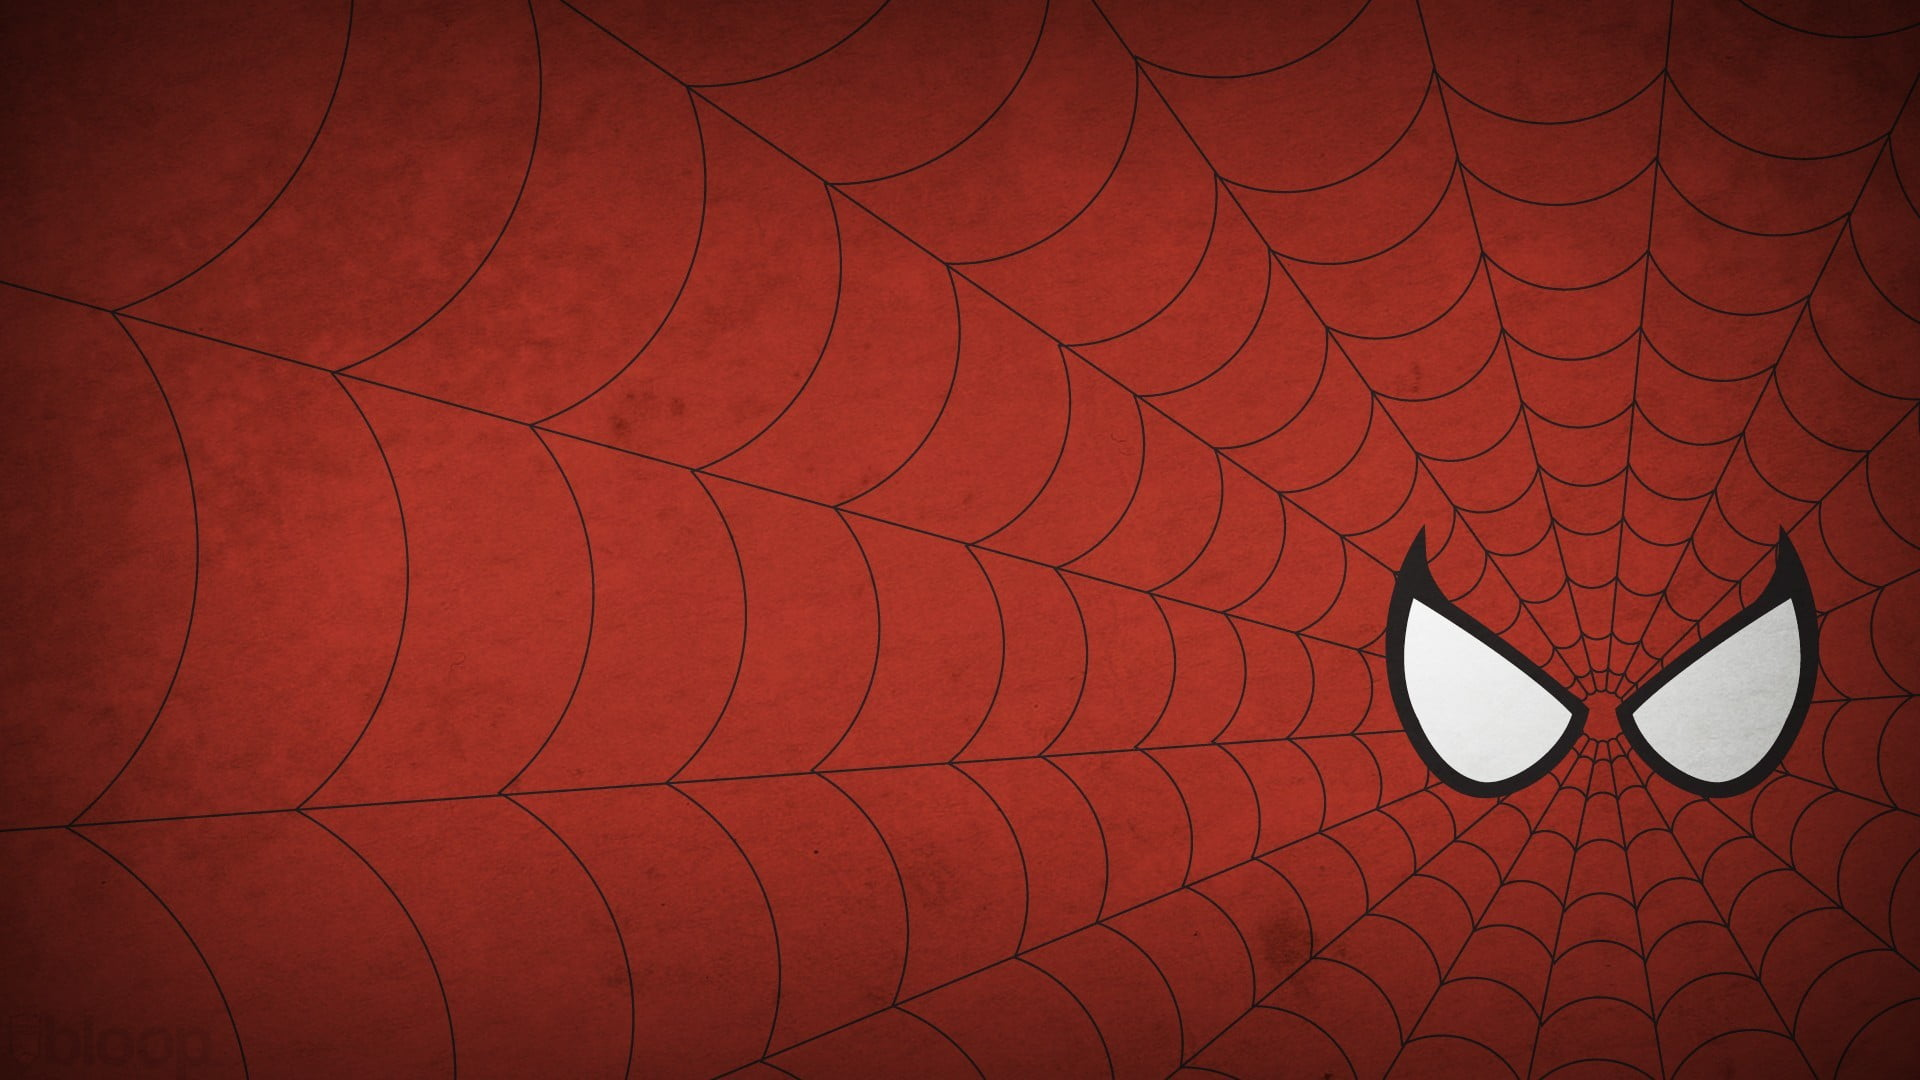
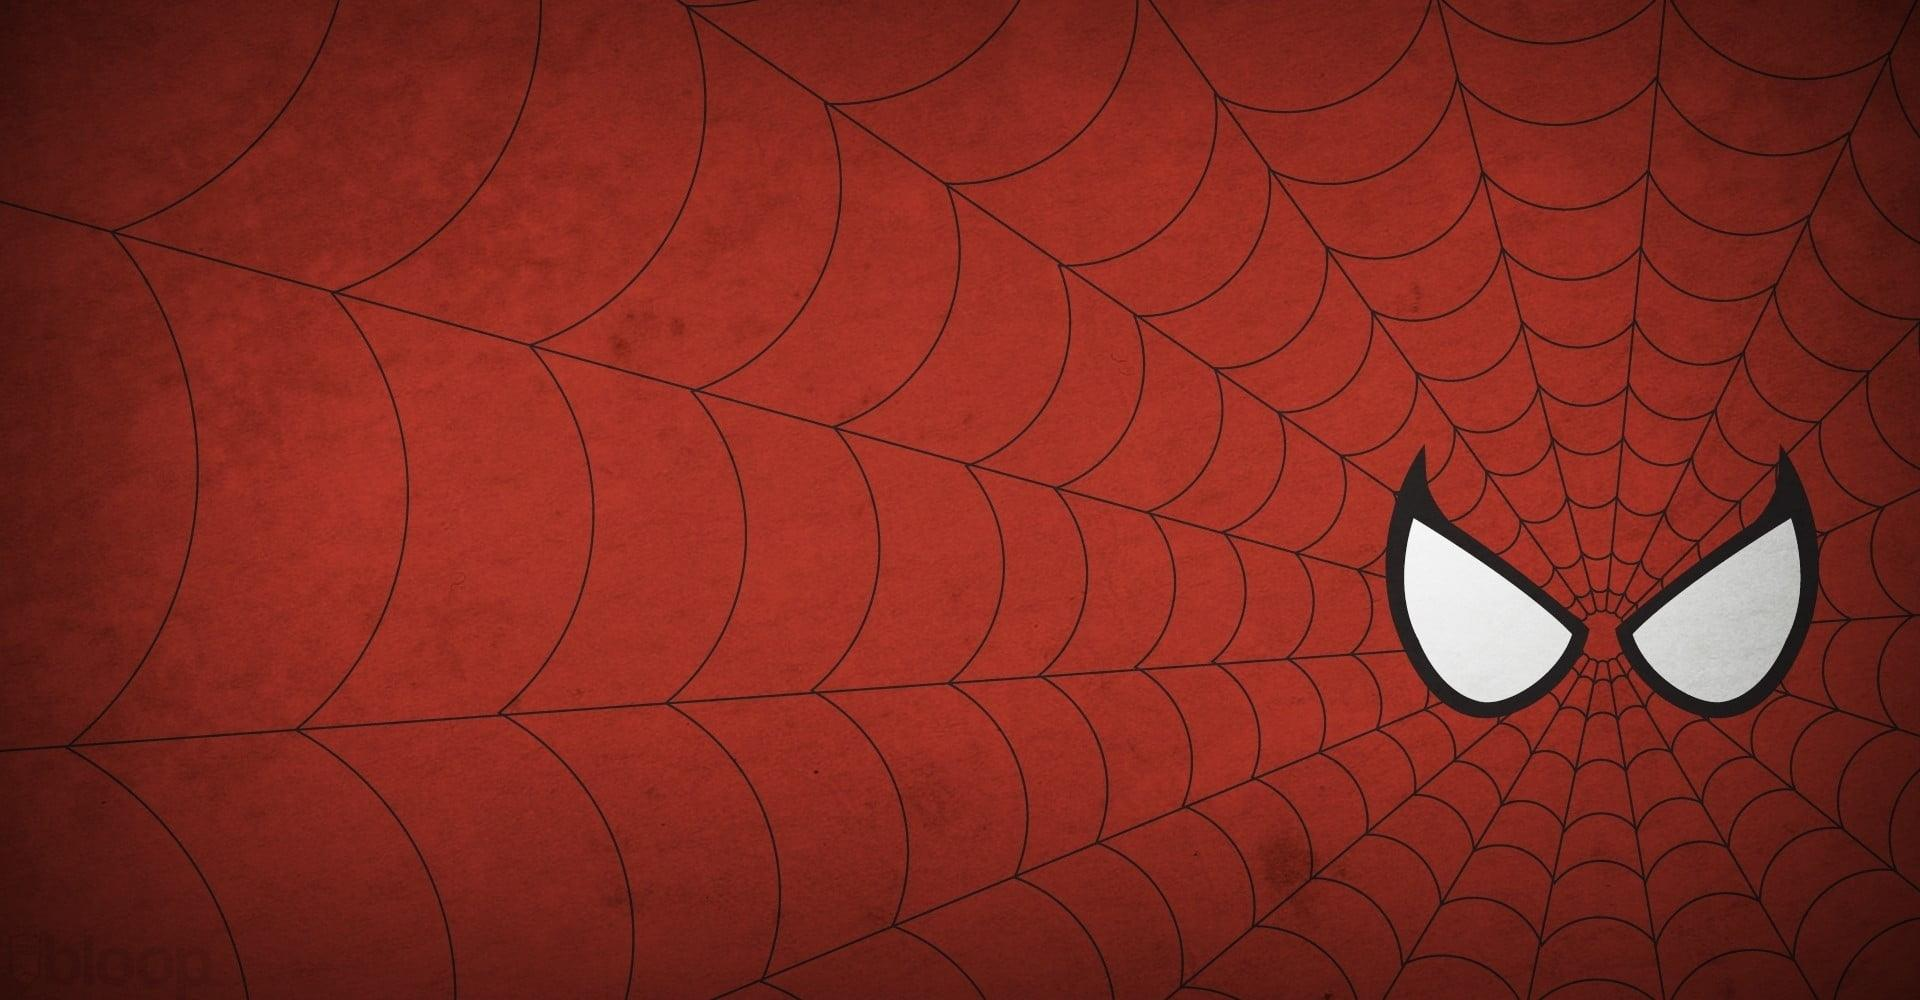
UI design for the main page

diff --git a/packages/react-app/src/App.js b/packages/react-app/src/App.js
@@ -2,11 +2,20 @@ import React, { useState } from 'react'
 import { useEthers } from "@usedapp/core";
 import styles from "./styles";
 import logo from "./assets/marvel_logo.png"
-import { Exchange, Loader, ToggleBar, WalletButton } from "./components";
+import { Exchange, Loader, WalletButton } from "./components";
 import { usePools } from "./hooks";
 import bg_1 from './assets/bg_1.jpg'
+import bg_2 from './assets/bg_2.jpg'
+import bg_3 from './assets/bg_3.jpg'
+import bg_4 from './assets/bg_4.jpg'
+import bg_5 from './assets/bg_5.jpg'
+import bg_6 from './assets/bg_6.jpg'
+import bg_7 from './assets/bg_7.jpg'
+import bg_8 from './assets/bg_8.jpg'
+import side_img from './assets/side_5.png'
 import { MdSwapVerticalCircle } from 'react-icons/md'
 import { FaChartPie } from 'react-icons/fa'
+import eye from './assets/eye_2.png'
 
 
 const App = () => {
@@ -29,35 +38,120 @@ const App = () => {
     setPoolOpen(true)
   }
 
-  const bgImage1 = {
+  window.addEventListener('mousemove', (e) => {
+    // console.log(e.clientX)
+    const mouseX = e.clientX
+    const mouseY = e.clientY
+
+    const anchor = document.getElementById('anchor')
+    const rekt = anchor.getBoundingClientRect()
+    const anchorX = rekt.left + rekt.width / 2
+    const anchorY = rekt.top + rekt.height / 2
+
+    const angleDeg = angle(mouseX, mouseY, anchorX, anchorY)
+    console.log(angleDeg)
+
+    const eyes = document.querySelectorAll('.eye')
+      eyes.forEach(eachEye => {
+        eachEye.style.transform = `rotate(${90 + angleDeg}deg)`
+      })
+  })
+
+  function angle(cx, cy, ex, ey) {
+    const dy = ey - cy
+    const dx = ex - cx
+    const rad = Math.atan2(dy, dx)
+    const deg = rad * 180 / Math.PI
+    return deg
+  }
+  const bgImage_1 = {
     backgroundImage: `url(${bg_1})`,
     height: '100vh',
     backgroundSize: 'cover',
     backgroundRepeat: 'no-repeat'
   }
 
+  const bgImage_2 = {
+    backgroundImage: `url(${bg_2})`,
+    height: '100vh',
+    backgroundSize: 'cover',
+    backgroundRepeat: 'no-repeat'
+  }
+
+  const bgImage_3 = {
+    backgroundImage: `url(${bg_3})`,
+    height: '100vh',
+    backgroundSize: 'cover',
+    backgroundRepeat: 'no-repeat'
+  }
+
+  const bgImage_4 = {
+    backgroundImage: `url(${bg_4})`,
+    height: '100vh',
+    backgroundSize: 'cover',
+    backgroundRepeat: 'no-repeat'
+  }
+
+  const bgImage_5 = {
+    backgroundImage: `url(${bg_5})`,
+    height: '100vh',
+    backgroundSize: 'cover',
+    backgroundRepeat: 'no-repeat'
+  }
+
+  const bgImage_6 = {
+    backgroundImage: `url(${bg_6})`,
+    height: '100vh',
+    backgroundSize: 'cover',
+    backgroundRepeat: 'no-repeat'
+  }
+
+  const bgImage_7 = {
+    backgroundImage: `url(${bg_7})`,
+    height: '100vh',
+    backgroundSize: 'cover',
+    backgroundRepeat: 'no-repeat'
+  }
+
+  const bgImage_8 = {
+    backgroundImage: `url(${bg_8})`,
+    height: '100vh',
+    backgroundSize: 'cover',
+    backgroundRepeat: 'no-repeat'
+  }
+
+  const bgArray = [bgImage_1, bgImage_2, bgImage_3, bgImage_4, bgImage_5, bgImage_6, bgImage_7, bgImage_8]
+
   return (
-    <div className="flex justify-center min-h-screen sm:px-16 px-6 bg-site-black" style={bgImage1}>
-      <div className="relative flex justify-between items-center flex-col max-w-[1480px] w-full">
+    <div 
+      className="relative flex justify-center min-h-screen sm:px-16 px-6 bg-site-black" 
+      style={bgArray[4]} 
+    >
+      <img src={side_img} alt="side-img" id="anchor" className="fixed hidden lg:block absolute w-[420px] -top-[10px] left-[30px] z-10 border" />
+      {/* <div className='hidden lg:block' id='eyes'>
+        <img src={eye} alt="eye" className='eye absolute w-[45px] lg:bottom-[180px] lg:right-[320px] xl:bottom-[200px] xl:right-[420px]' />
+        <img src={eye} alt="eye" className='eye absolute w-[45px] lg:bottom-[180px] lg:right-[160px] xl:bottom-[200px] xl:right-[220px]' />
+      </div> */}
+      <div className="relative flex justify-between items-center flex-col max-w-[1580px] w-full">
         {/* NAV BAR */}
         <header className="flex flex-row justify-between items-center w-full py-6">
           {/* logo + name */}
-          <div className="flex items-center w-full md:w-[20%] ">
+          <div className="flex items-center w-full md:w-[25%] z-20">
             <img
               src={logo}
               alt="uniswap-logo"
               className="xl:w-20 xl:h-20 w-16 h-16 object-contain"
             />
-            <h1 className="text-white ml-3 font-poppins font-black text-xl lg:text-2xl xl:text-3xl tracking-tight hidden sm:block">Marvel Swap 3.0</h1>
+            <h1 className="logo-text text-white ml-3 font-poppins font-black text-xl lg:text-3xl xl:text-4xl tracking-tight hidden lg:block">Marvel Swap</h1>
           </div>
           {/* toggle bar */}
-          <div className="hidden md:flex justify-center items-center w-[50%]">
+          <div className="hidden md:flex justify-center items-center w-[45%]">
             <div className='flex justify-between space-x-1 max-w-[60%] min-w-[400px] p-[6px] rounded-xl bg-site-black shadow
-            h-[3.5rem] xl:h-[3.6rem]'>
+            h-[3.5rem] xl:h-[3.6rem] shadow-xl'>
               <div
                 onClick={swapClick} 
                 className= {`duration-200 flex items-center group rounded-xl p-2 w-full cursor-pointer flex justify-center items-center space-x-1
-                    ${swapOpen ? 'bg-sky-500 w-[60%] text-gray-50' : 'text-gray-100 hover:bg-site-dim2 hover:text-gray-50 w-[40%]'}`}>
+                    ${swapOpen ? 'bg-sky-500 w-[50%] text-gray-50' : 'text-gray-100 hover:bg-site-dim2 hover:text-gray-50 w-[50%]'}`}>
                 <MdSwapVerticalCircle size={23} className="group-hover:rotate-180 duraing-500 transition-all" />
                 <h2 className='text-center font-mono font-bold'>Swap</h2>
 
@@ -65,7 +159,7 @@ const App = () => {
               <div
                 onClick={poolClick} 
                 className= {`duration-200 flex items-center group rounded-xl p-2 w-full cursor-pointer flex justify-center items-center space-x-2 
-                    ${poolOpen ? 'bg-sky-500 w-[60%] text-gray-50' : 'text-gray-100 hover:bg-site-dim2 hover:text-gray-50 w-[40%]'}`}>
+                    ${poolOpen ? 'bg-sky-500 w-[50%] text-gray-50' : 'text-gray-100 hover:bg-site-dim2 hover:text-gray-50 w-[50%]'}`}>
                 <FaChartPie size={23} className="group-hover:rotate-180 duraing-500 transition-all" />
                 <h2 className='text-center font-mono font-bold'>Pool</h2>
 
@@ -87,7 +181,7 @@ const App = () => {
 
           {/* EXCHANGE BOX */}
           {swapOpen && <div className="md:mt-16 mt-[8rem] w-full flex justify-center">
-            <div className="relative lg:max-w-[520px] xl:max-w-[700px] min-w-[450px] gradient-border p-[2px] rounded-3xl">
+            <div className="relative lg:max-w-[520px] xl:max-w-[700px] min-w-[450px] gradient-border p-[2px] rounded-3xl shadow-2xl">
               <div className="pink_gradient" />
               <div className="w-full min-h-[400px] bg-site-black backdrop-blur-[4px] rounded-3xl shadow-card flex px-6 py-10">
               {account ? (

diff --git a/packages/react-app/src/index.css b/packages/react-app/src/index.css
@@ -62,3 +62,7 @@ input[type="number"] {
     #EFA53A 99.52%
   );
 }
+
+.logo-text {
+  -webkit-text-stroke: 2px black;
+}
